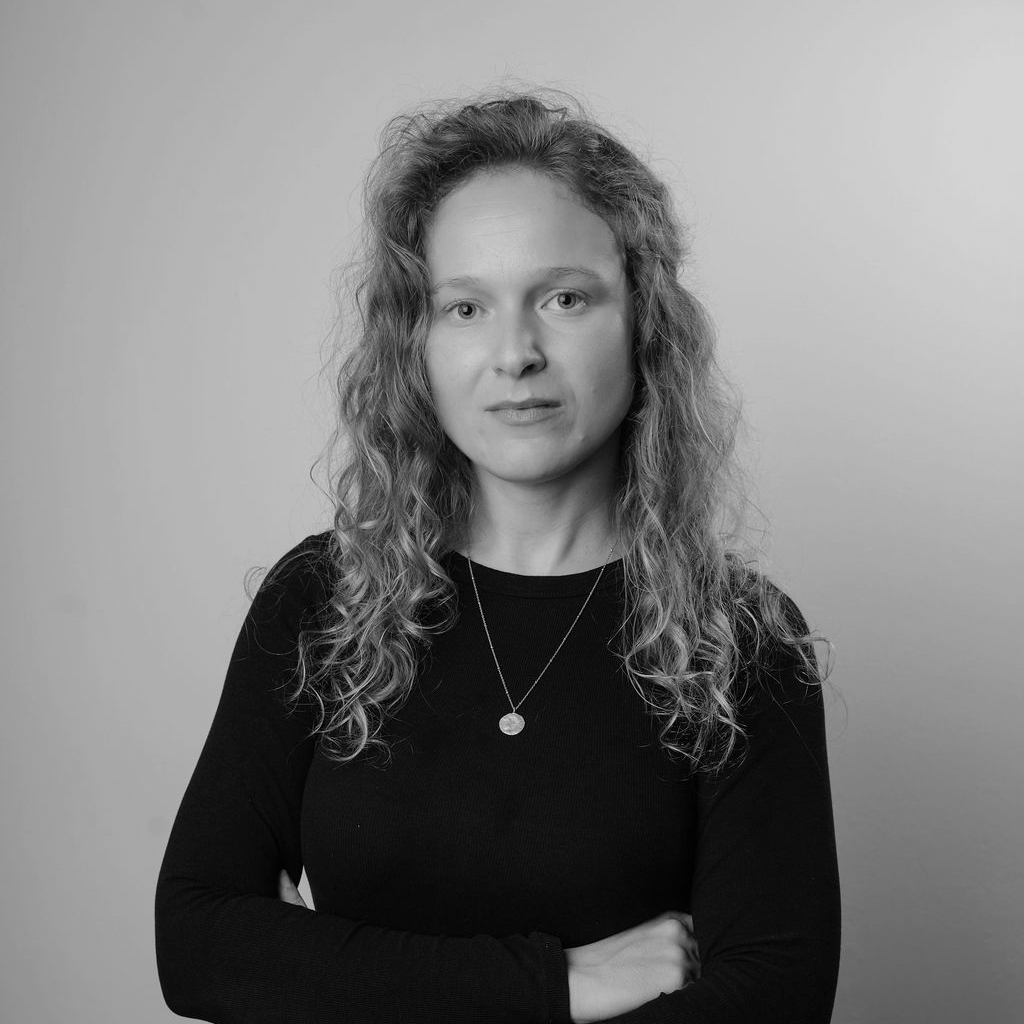
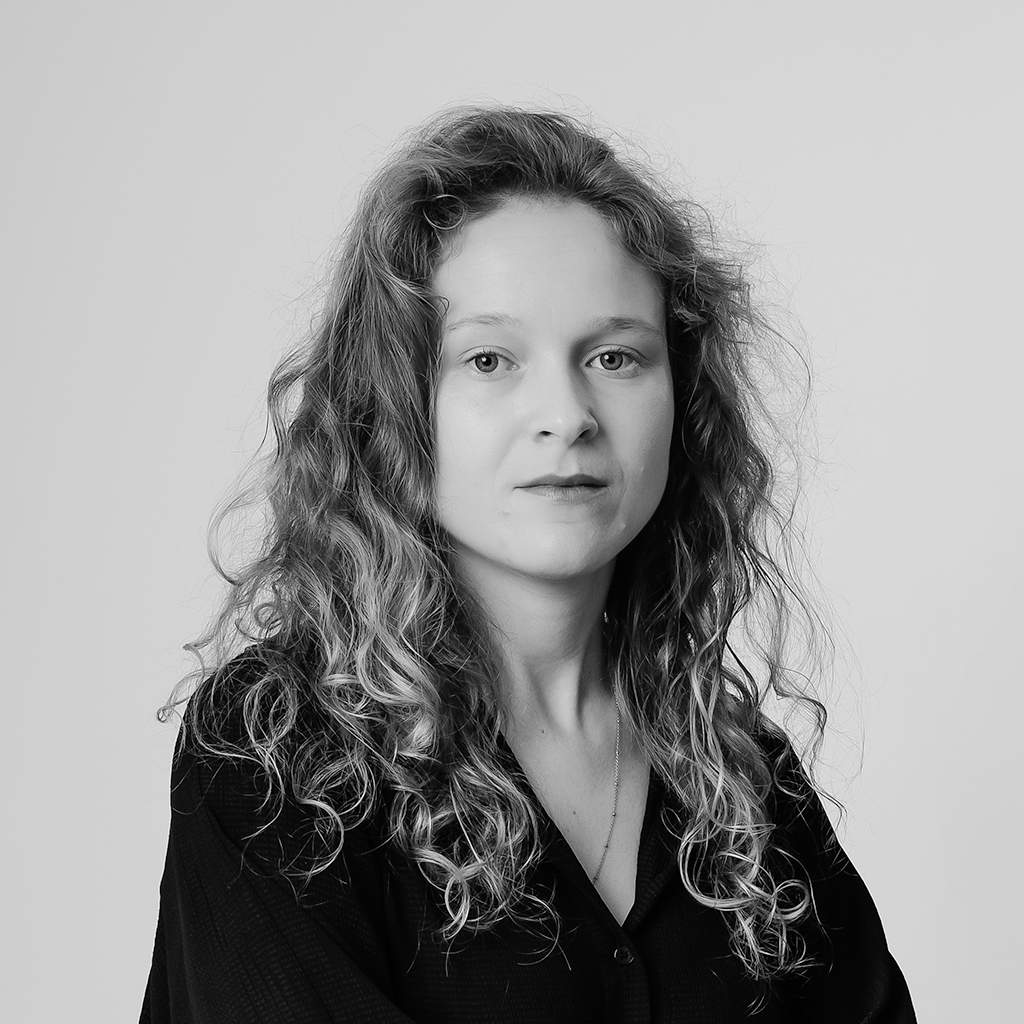
Slideshow on Contact

diff --git a/templates/about.html b/templates/about.html
@@ -75,9 +75,16 @@
         <img class="about-decor fade-in delay-3" src="{% static 'images/icons/diagonal-arrow.svg' %}" />
     </section>
 
-    <div class="team-photo-wrapper zoom-in">
-        <img src="{% static 'images/about/team-photo.webp' %}" alt="Team Photo" class="team-photo" />
+    <div class="team-photo-wrapper zoom-in" data-interval="4000">
+        <img src="{% static 'images/about/entropic-office-1.webp' %}" alt="Team Photo 1" class="team-photo active" />
+        <img src="{% static 'images/about/entropic-office-2.webp' %}" alt="Team Photo 2" class="team-photo" />
+        <img src="{% static 'images/about/entropic-office-3.webp' %}" alt="Team Photo 3" class="team-photo" />
+        <img src="{% static 'images/about/entropic-office-4.webp' %}" alt="Team Photo 3" class="team-photo" />
+        <img src="{% static 'images/about/entropic-office-5.webp' %}" alt="Team Photo 3" class="team-photo" />
+        <img src="{% static 'images/about/entropic-office-6.webp' %}" alt="Team Photo 3" class="team-photo" />
+        <img src="{% static 'images/about/entropic-office-7.webp' %}" alt="Team Photo 3" class="team-photo" />
     </div>
+
 
     <div class="dropdowns">
         <div class="dropdown">
@@ -546,6 +553,37 @@
             // Optional: if you ever inject tiles dynamically, reselect flipTiles here
         })();
     </script>
+
+    <script>
+        document.addEventListener('DOMContentLoaded', function () {
+            const wrapper = document.querySelector('.team-photo-wrapper');
+            if (!wrapper) return;
+
+            const slides = Array.from(wrapper.querySelectorAll('.team-photo'));
+            if (slides.length <= 1) { slides[0]?.classList.add('active'); return; }
+
+            const interval = parseInt(wrapper.getAttribute('data-interval') || '4000', 10);
+            let i = 0;
+
+            slides.forEach(s => s.classList.remove('active'));
+            slides[0].classList.add('active');
+
+            // One-time: when the first zoom-in finishes, drop the class so future slides just crossfade
+            const onFirstAnimEnd = () => {
+                wrapper.classList.remove('zoom-in');
+                slides[0].removeEventListener('animationend', onFirstAnimEnd);
+            };
+            slides[0].addEventListener('animationend', onFirstAnimEnd, { once: true });
+
+            setInterval(() => {
+                slides[i].classList.remove('active');
+                i = (i + 1) % slides.length;
+                slides[i].classList.add('active');
+            }, interval);
+            });
+    </script>
+
+
 
 </body>
 </html>

diff --git a/static/styles/about.css b/static/styles/about.css
@@ -38,18 +38,24 @@ p  { font-size: 1rem; }
   transform: rotate(90deg);
 }
 .team-photo-wrapper {
-  padding: 0 2rem;
-  height: 500px;
+  
+  height: 800px;
   overflow: hidden;
   position: relative;
 }
 .team-photo {
+  position: absolute; /* stack slides */
+  inset: 0;
   width: 100%;
   height: 100%;
   object-fit: cover;
   object-position: center;
+  opacity: 0;
+  transition: opacity .6s ease;
   display: block;
 }
+.team-photo.active { opacity: 1; }
+
 
 /*!INTRO ANIMATIONS**/
 .fade-in {
@@ -71,17 +77,21 @@ p  { font-size: 1rem; }
 
 .zoom-in .team-photo {
   transform: scale(1.05);
-  opacity: 0;
-  animation: zoomIn 1.5s ease-out forwards;
-  animation-delay: 0.5s;
+  animation: none;
+  will-change: opacity, transform;
+}
+
+.zoom-in .team-photo.active {
+  animation: zoomIn 1.2s ease-out forwards;
 }
 
 @keyframes zoomIn {
   to {
     transform: scale(1);
-    opacity: 1;
+    opacity: 1; /* this works with .team-photo.active { opacity:1 } */
   }
 }
+
 
 /*!INTRO ADJUSTMENTS FOR SCREENS**/
 @media (max-width: 768px) {
@@ -94,7 +104,7 @@ p  { font-size: 1rem; }
   }
   .team-photo-wrapper {
   padding: 0;
-  height: 300px;
+  height: 500px;
   overflow: hidden;
   position: relative;
   }

diff --git a/static/styles/individual-projects.css b/static/styles/individual-projects.css
@@ -98,7 +98,6 @@ body {
     }
 
     .project-name h4 {
-      margin-top: 4rem;
       max-width: 40ch;
     }
 }
@@ -111,7 +110,6 @@ body {
 
 @media (max-width: 400px) { 
     .project-name h4 {
-      margin-top: 4rem;
       max-width: 25ch;
     }
 }
@@ -167,7 +165,7 @@ body {
 /*!SLIDESHOW ADJUSTMENTS FOR SCREENS**/
 @media (max-width: 768px) {
   .fullscreen-slideshow {
-    aspect-ratio: 9/16; /* taller container on phones */
+    aspect-ratio: 10/16; /* taller container on phones */
   }
 }
 
